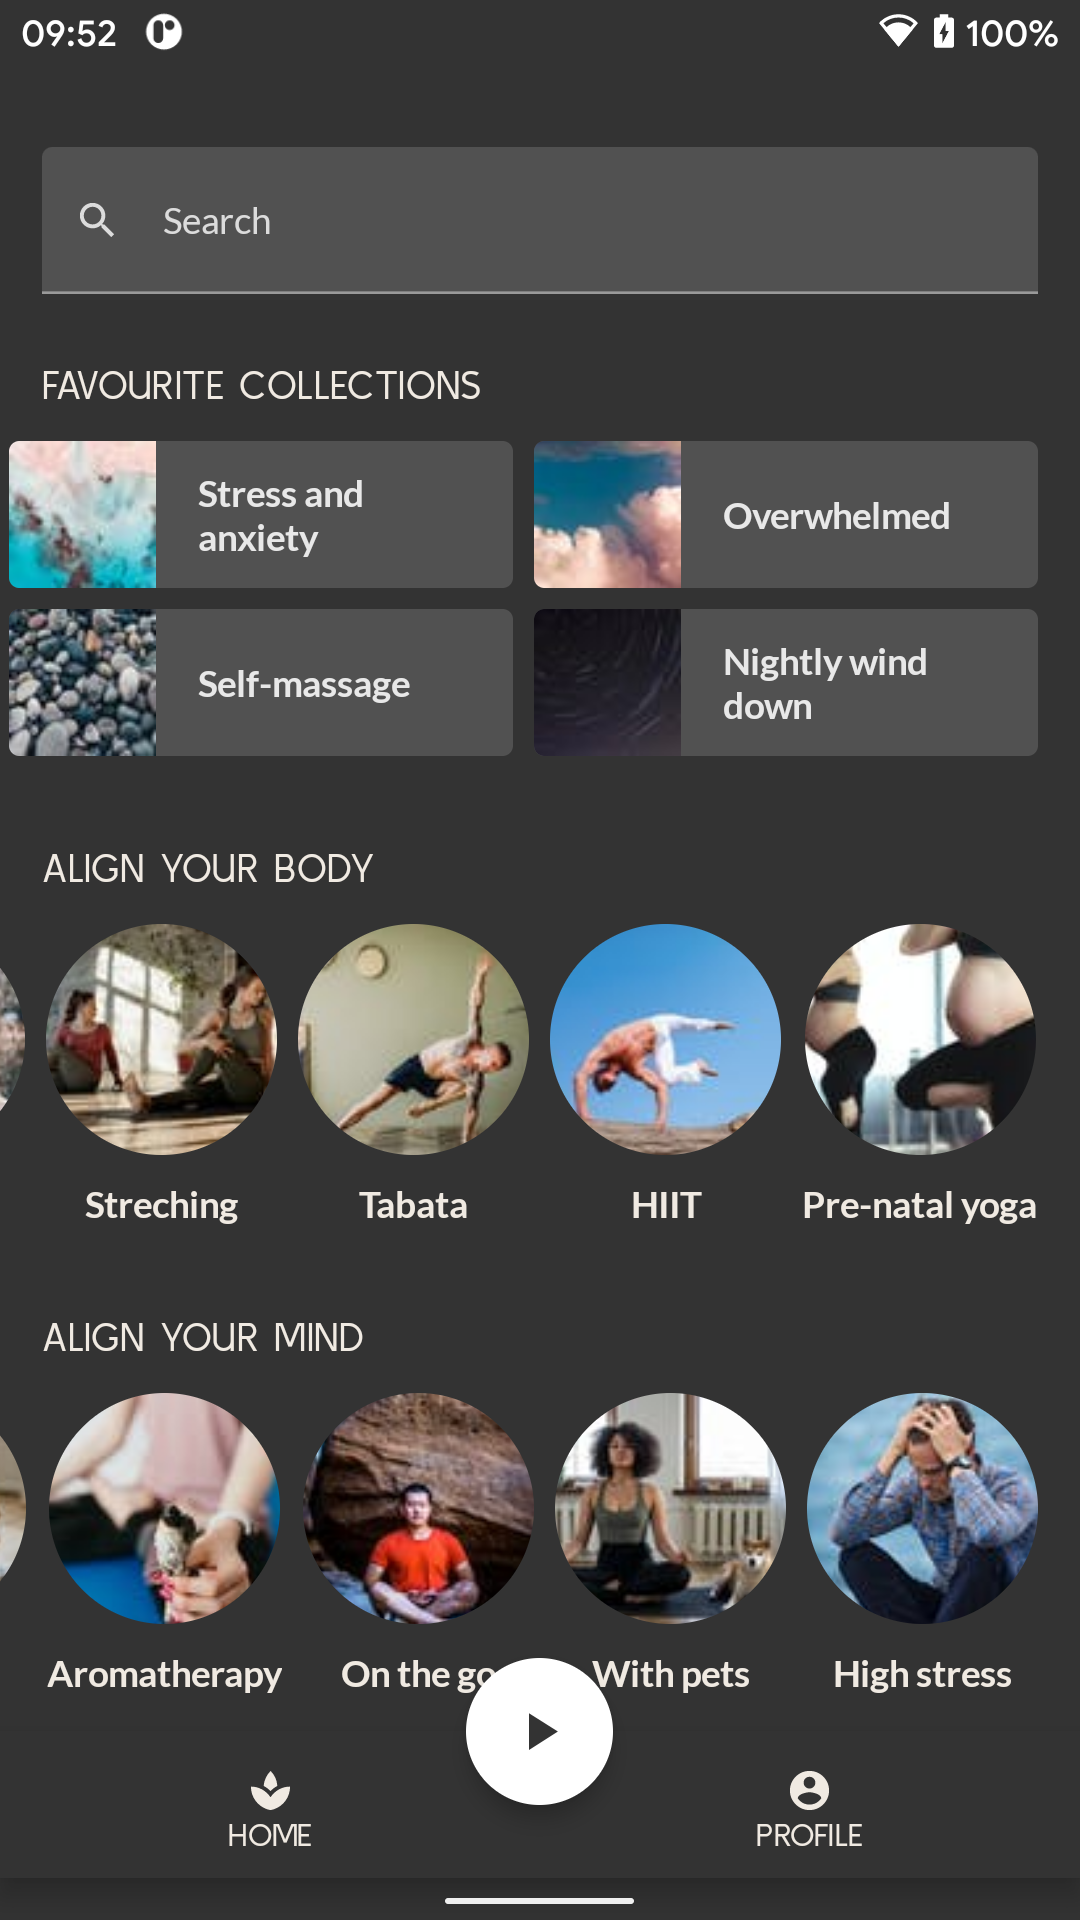
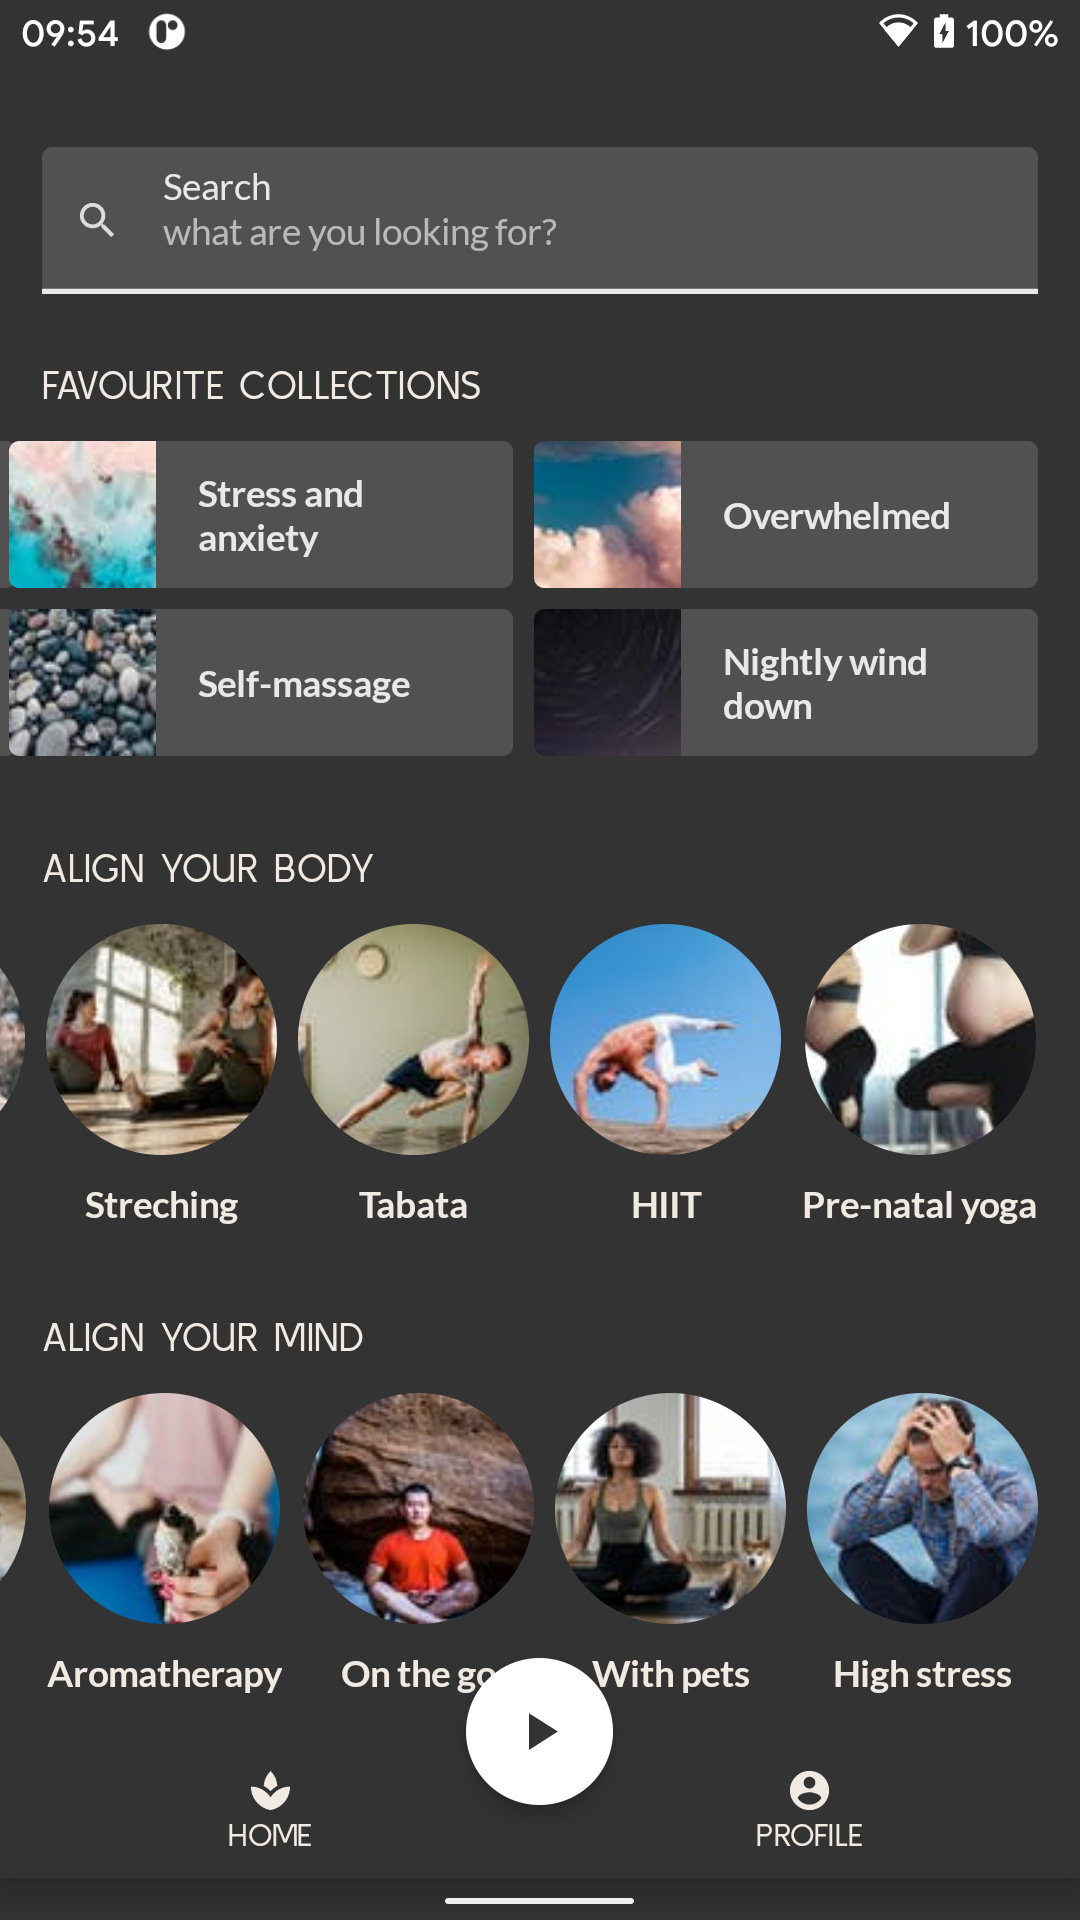
Add label to search too

Changed region(s): [[0.1528, 0.0938, 0.5194, 0.1562], [0.0, 0.2188, 0.0306, 0.4062], [0.0917, 0.0, 0.1833, 0.0312]]

diff --git a/app/src/main/java/dev/danielesegato/androiddevchallenge/mysoothe/home/Home.kt b/app/src/main/java/dev/danielesegato/androiddevchallenge/mysoothe/home/Home.kt
@@ -262,7 +262,6 @@ private fun Search(
         textStyle = MaterialTheme.typography.body1,
         colors = TextFieldDefaults.textFieldColors(
             backgroundColor = MaterialTheme.colors.surface,
-            textColor = MaterialTheme.colors.onSurface,
         ),
         leadingIcon = {
             Image(
@@ -272,11 +271,16 @@ private fun Search(
                 contentDescription = stringResource(R.string.home_field_search_leadingicon_desc),
             )
         },
+        label = {
+            Text(
+                text = stringResource(R.string.home_field_search_label),
+                style = MaterialTheme.typography.body1,
+            )
+        },
         placeholder = {
             Text(
                 text = stringResource(R.string.home_field_search_hint),
                 style = MaterialTheme.typography.body1,
-                color = MaterialTheme.colors.onSurface,
             )
         },
     )

diff --git a/app/src/main/java/dev/danielesegato/androiddevchallenge/mysoothe/ui/theme/Type.kt b/app/src/main/java/dev/danielesegato/androiddevchallenge/mysoothe/ui/theme/Type.kt
@@ -20,7 +20,6 @@ import androidx.compose.ui.text.TextStyle
 import androidx.compose.ui.text.font.Font
 import androidx.compose.ui.text.font.FontFamily
 import androidx.compose.ui.text.font.FontWeight
-import androidx.compose.ui.unit.em
 import androidx.compose.ui.unit.sp
 import dev.danielesegato.androiddevchallenge.mysoothe.R
 
